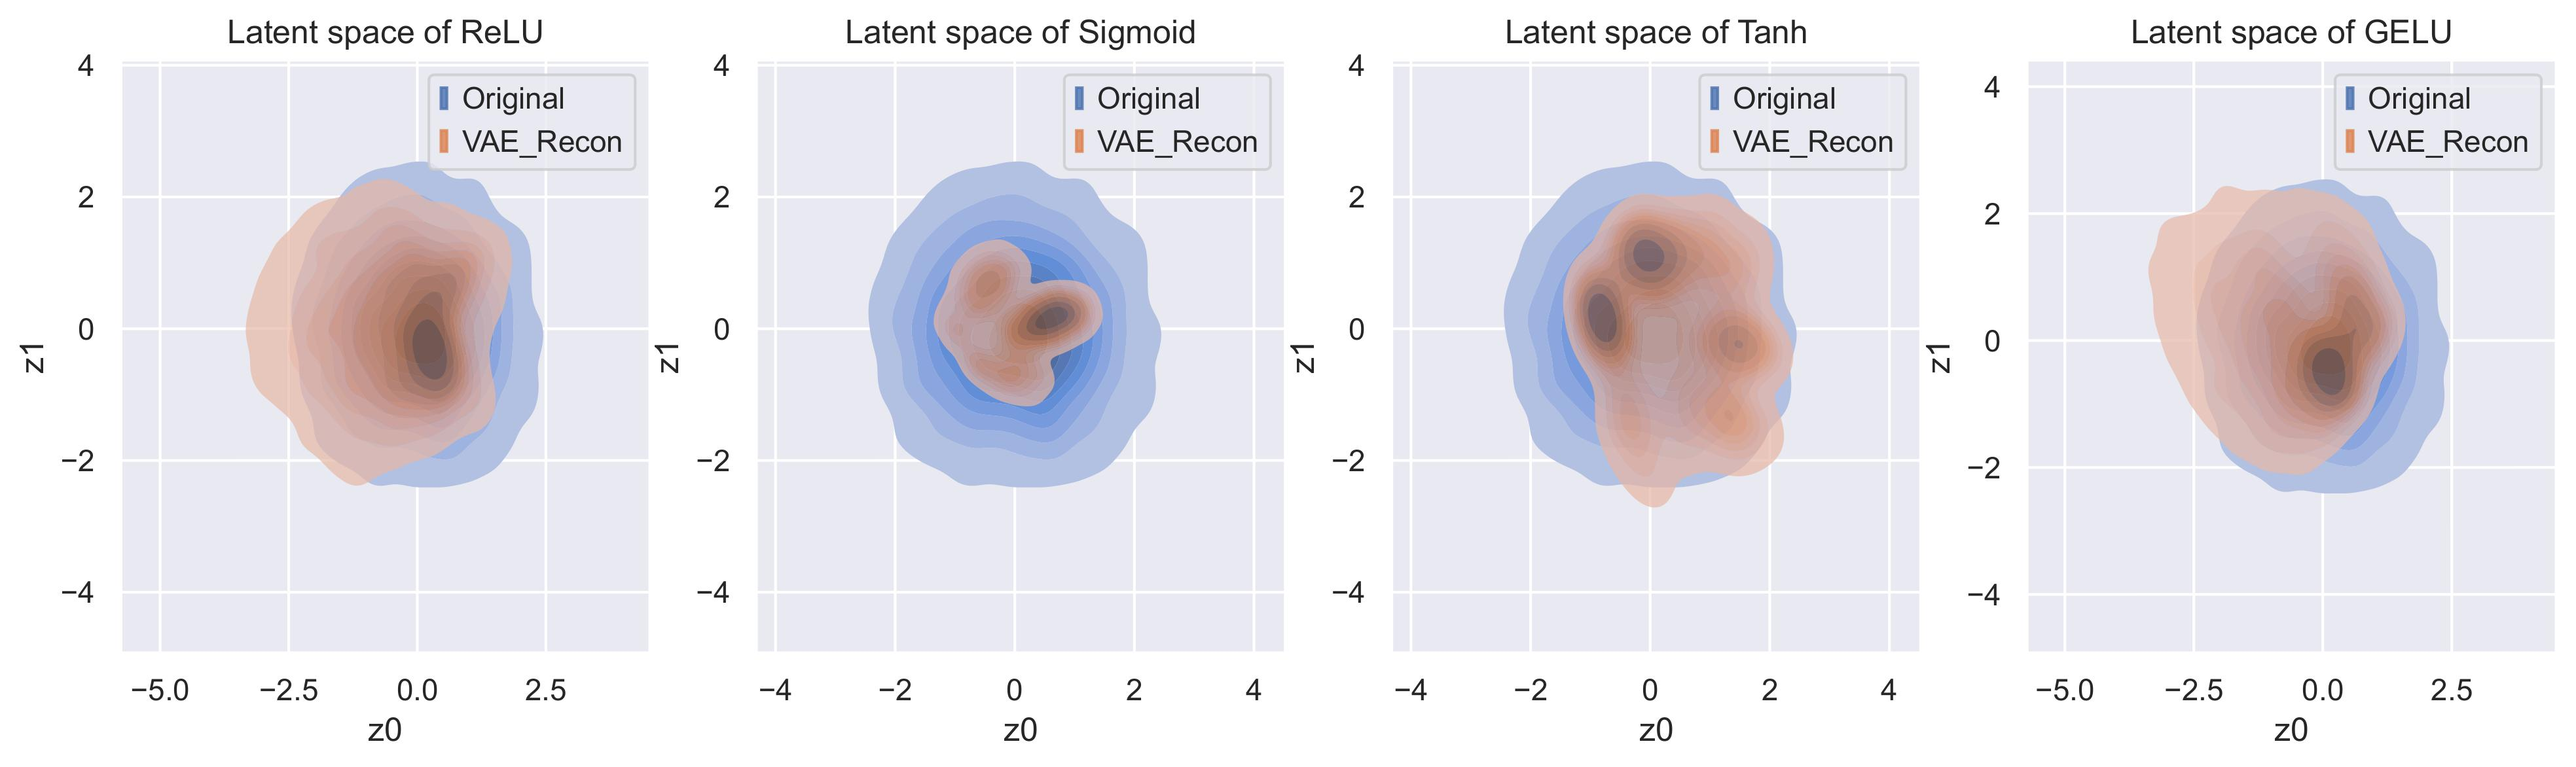
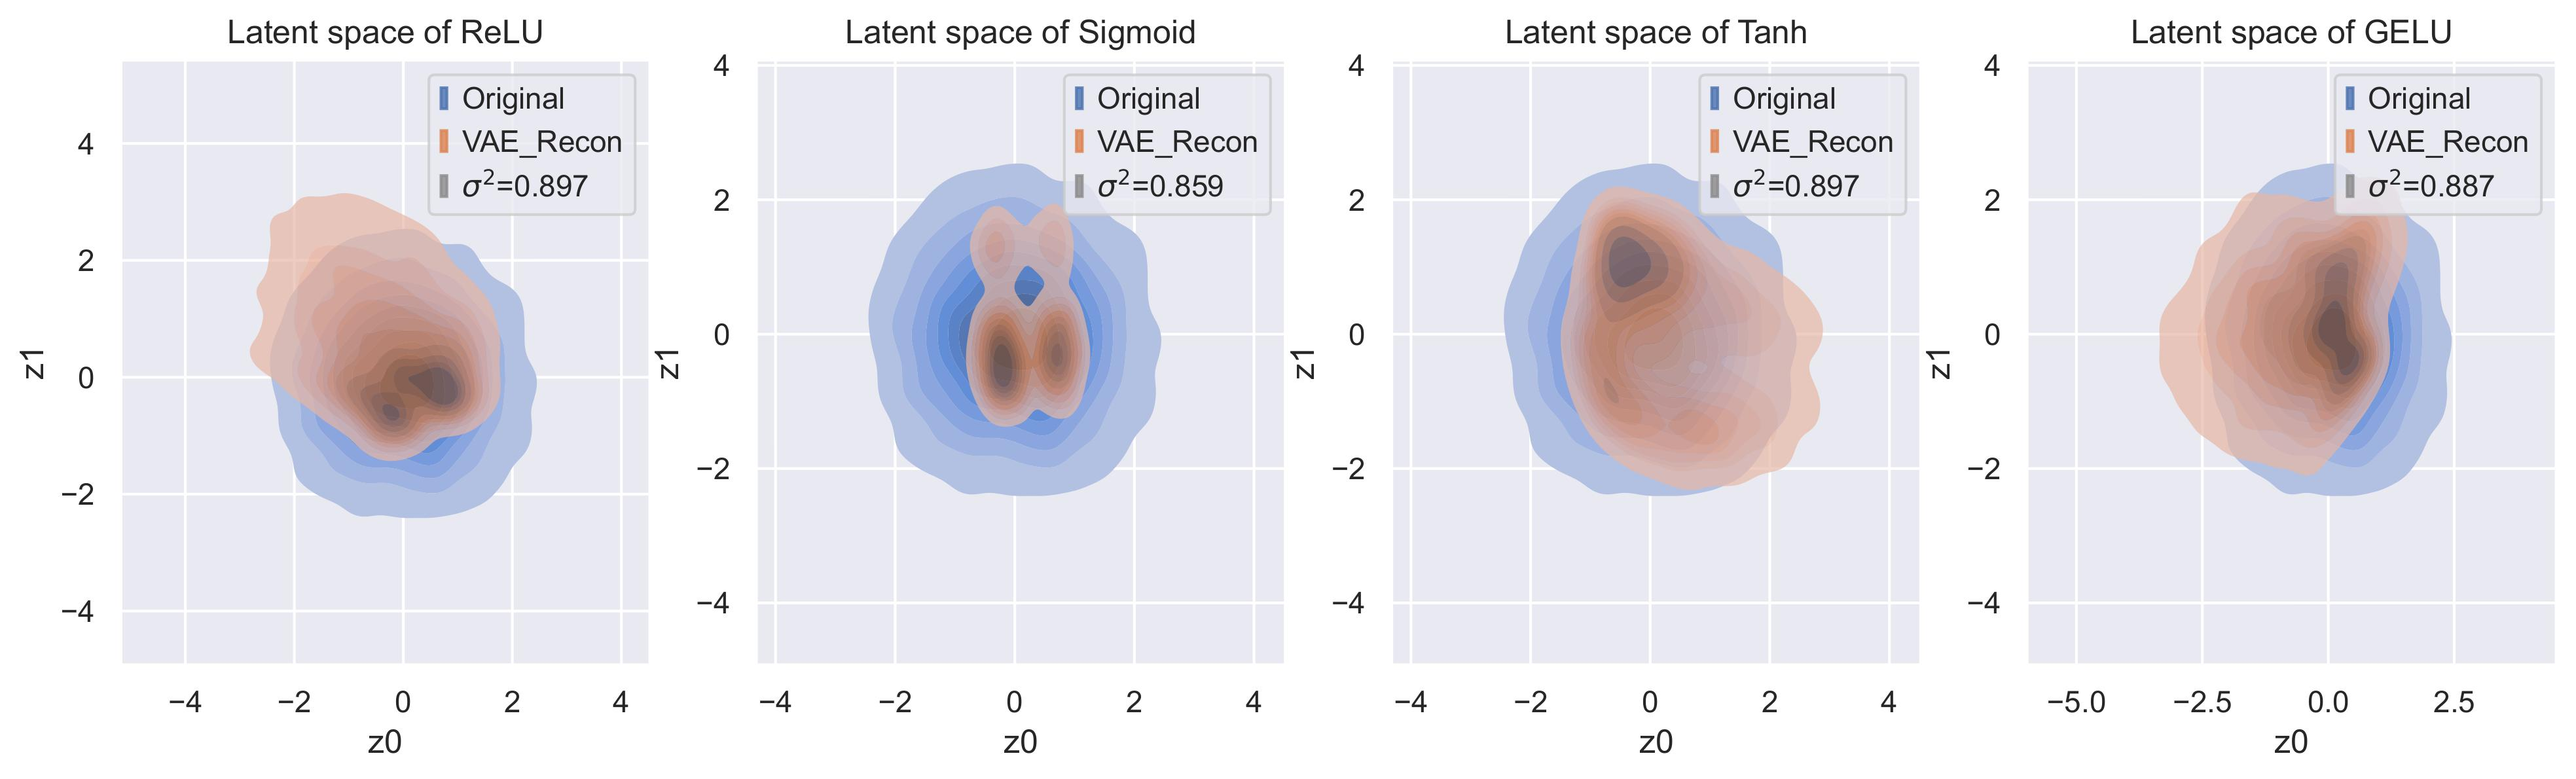
update

diff --git a/visualization/latent.py b/visualization/latent.py
@@ -1,6 +1,7 @@
 from global_settings import VAE_PATH
 import matplotlib.patches as mpatches
 import matplotlib.pyplot as plt
+import numpy as np
 import pandas as pd
 import seaborn as sns
 import os
@@ -21,9 +22,11 @@ def plot_latent_2d(n):
         simu_df = pd.read_csv(os.path.join(model_path, "simu_df.csv"))
         sns.kdeplot(data=simu_df, x="z0", y="z1", fill=True, alpha=1., ax=ax)
         sns.kdeplot(data=recon_df, x="mu0", y="mu1", fill=True, alpha=.7, ax=ax)
+        s2 = np.round(np.mean(np.exp(recon_df["logs2"])), 3)
         ax_legend_true = mpatches.Patch(color=sns.color_palette()[0], label="Original", alpha=0.8)
         ax_legend_recon = mpatches.Patch(color=sns.color_palette()[1], label="VAE_Recon", alpha=0.8)
-        handles = [ax_legend_true, ax_legend_recon]
+        ax_legend_s2 = mpatches.Patch(color=sns.color_palette()[7], label=f"$\sigma^2$={s2}", alpha=0.8)
+        handles = [ax_legend_true, ax_legend_recon, ax_legend_s2]
         ax.legend(handles=handles, loc="upper right", handlelength=0.2, handletextpad=0.5)
         ax.set_title(f"Latent space of {activation}")
         ax.set_xlabel("z0")

diff --git a/main.py b/main.py
@@ -5,6 +5,7 @@ from vae.training import train_vae
 from vae.training import valid_vae
 from vae.simulation import simu_vae
 from params.params import exp_dict
+from visualization.latent import plot_latent_2d
 import torch
 import numpy as np
 import os
@@ -42,3 +43,12 @@ def main(m, n, activation):
     recon_df = simu_vae(m, n, model, simu_loader)
     simu_df.to_csv(os.path.join(model_path, "simu_df.csv"))
     recon_df.to_csv(os.path.join(model_path, "recon_df.csv"))
+
+
+if __name__ == "__main__":
+    # from torch import nn
+    # main(m=2, n=20, activation=nn.ReLU())
+    # main(m=2, n=20, activation=nn.Sigmoid())
+    # main(m=2, n=20, activation=nn.Tanh())
+    # main(m=2, n=20, activation=nn.GELU())
+    plot_latent_2d(n=20)

diff --git a/vae/simulation.py b/vae/simulation.py
@@ -37,7 +37,7 @@ def simu_vae(m, n, model, simu_loader):
     mean, logs2 = mean.cpu().detach().numpy(), logs2.cpu().detach().numpy()
     mu, logvar = mu.cpu().detach().numpy(), logvar.cpu().detach().numpy()
     mean_dict = {f"mean{i}": mean[:, i].reshape(-1) for i in range(mean.shape[1])}
-    logs2_dict = {f"logs2{i}": logs2[:, i].reshape(-1) for i in range(logs2.shape[1])}
+    logs2_dict = {f"logs2": logs2[:, 0].reshape(-1)}
     mu_dict = {f"mu{i}": mu[:, i].reshape(-1) for i in range(mu.shape[1])}
     logvar_dict = {f"logvar{i}": logvar[:, i].reshape(-1) for i in range(logvar.shape[1])}
     recon_dict = {**mean_dict, **logs2_dict, **mu_dict, **logvar_dict}

diff --git a/README.md b/README.md
@@ -48,7 +48,7 @@ valid_loss = valid_vae(model, valid_loader)
 recon_df = simu_vae(m, n, model, simu_loader)
 ```
 
-Distribution of the original and reconstructed latent variables `z` with `m=2, n=20` for different types of activation functions `ReLU`, `Sigmoid`, `Tanh` and `GELU`.
+Distribution of the original and reconstructed latent variables `z` with `m=2, n=20, sigma^2=1` for different types of activation functions `ReLU`, `Sigmoid`, `Tanh` and `GELU`.
 
 ![alt text](./__resources__/vae_latent.jpg?raw=true "Title")
 
